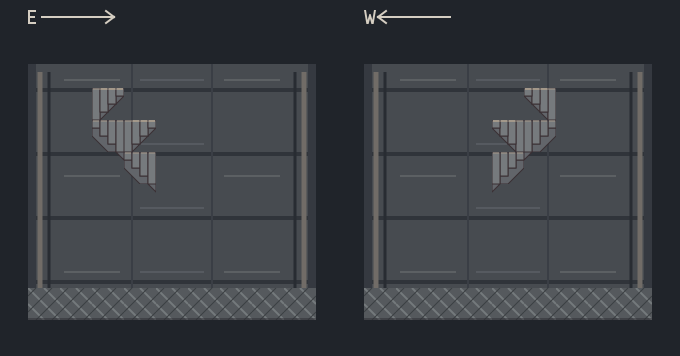
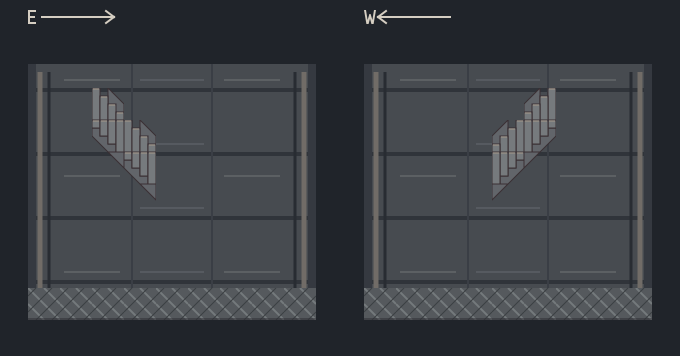
M158: correct stair-side tile joins
Anchor the upper treads to the bottom and expose their diagonal side; widen the continuation triangle to two steps so the shifted modules show the intended side connection before any live binding.

diff --git a/docs/evidence/m158-stair-tile-prototype-2026-09-19/README.md b/docs/evidence/m158-stair-tile-prototype-2026-09-19/README.md
@@ -2,14 +2,15 @@
 
 This review keeps the proposed stair side as six prepared SVG sources, not as a TileSet source or
 an `InteriorScene` binding. Each canvas is 32×32. The east-facing upper tile contains four 8px-wide
-rectangles of heights 32, 24, 16 and 8px; the lower tile reverses that sequence. The west-facing
-files mirror the complete east-facing geometry.
+rectangles of heights 32, 24, 16 and 8px, anchored to its bottom edge; the lower tile reverses
+that sequence from its top edge. The west-facing files mirror the complete east-facing geometry.
 
-The gray side is a clipped band under each rectangles' stepped lower edge. Its straight lower edge
-is diagonal. The continuation tile is intentionally only the 8×8 gray triangle at the top-right
-(top-left in the mirrored source), so a reviewer can judge its join without background art hiding
-it. The width is a silent, overturnable choice: 8px is the largest divisor of the 32px tile that
-gives four steps rather than only two.
+The upper tile exposes a gray diagonal side above its rectangles' stepped top edge, rather than
+allowing those rectangles to consume it. The lower side remains beneath its top-anchored stepped
+rectangles. The continuation tile is a 16×16 gray triangle at the top-right (top-left in the
+mirrored source): its legs span two 8px steps and bridge the lower side into the next shifted
+module without background art hiding the join. The width is a silent, overturnable choice: 8px is
+the largest divisor of the 32px tile that gives four steps rather than only two.
 
 `renders/stair-side-review.png` places upper, lower and continuation roles vertically. A second
 east module is one tile east and one tile down; its mirrored counterpart is one tile west and one
